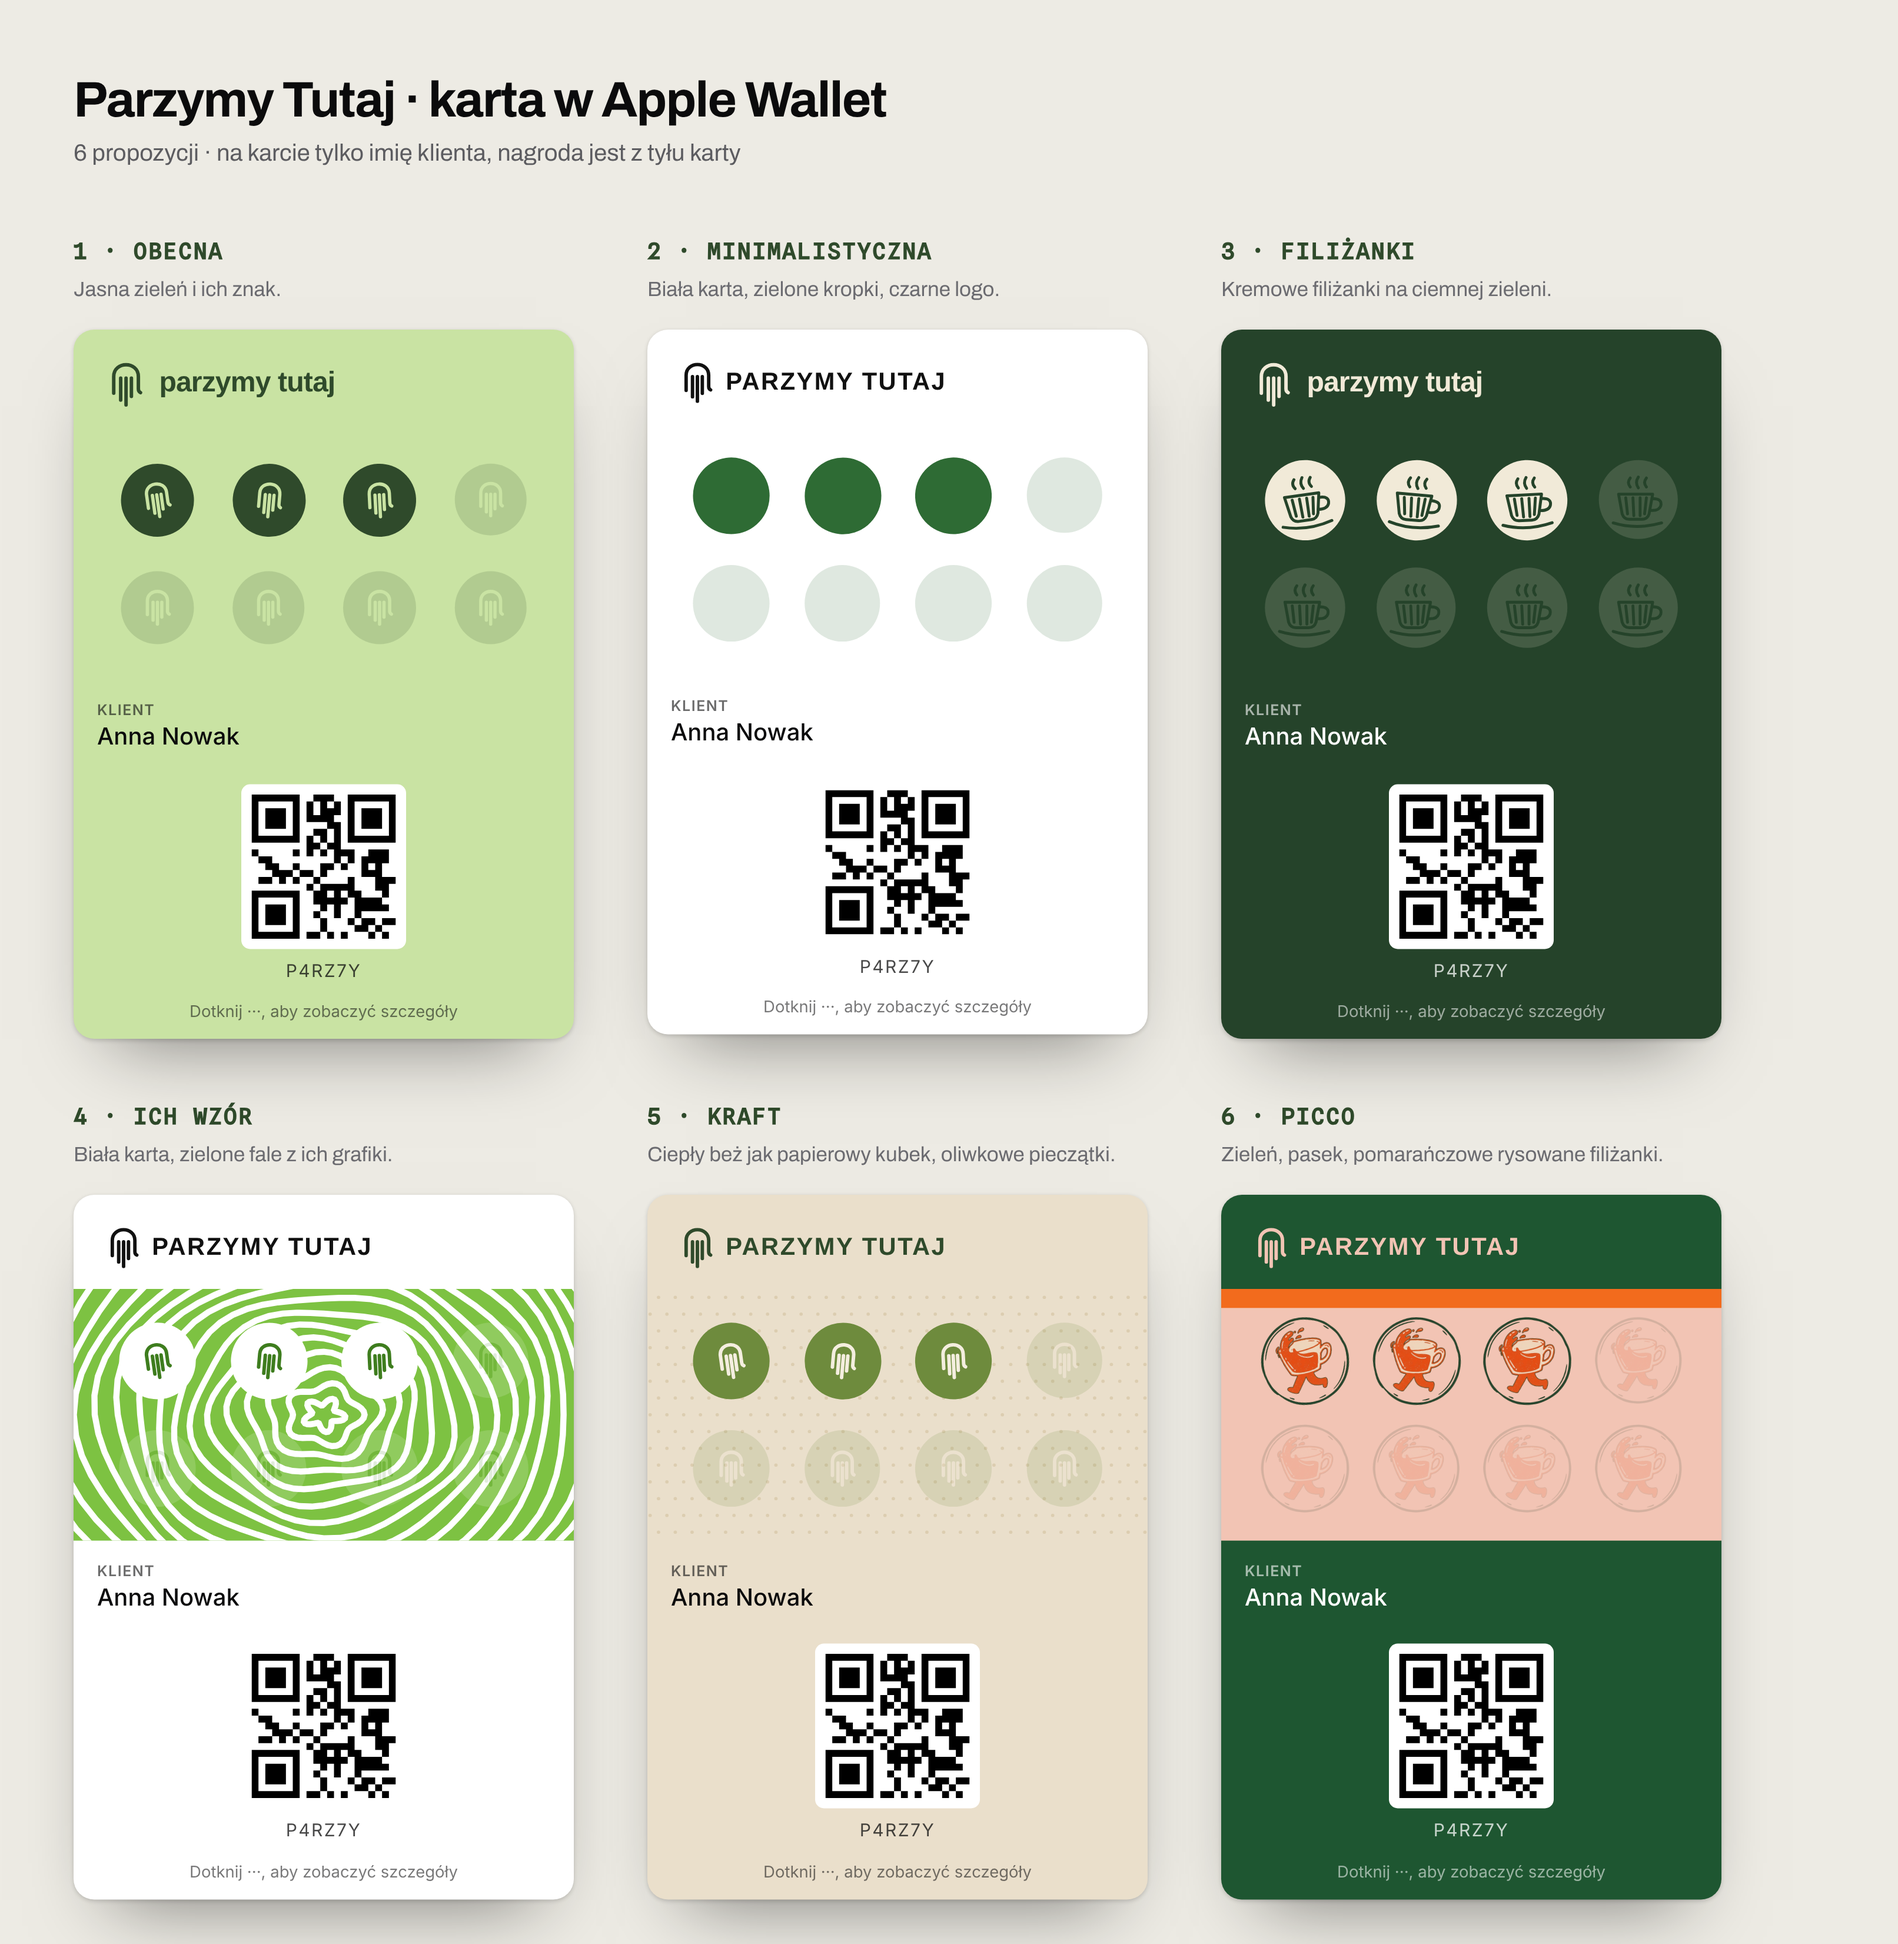
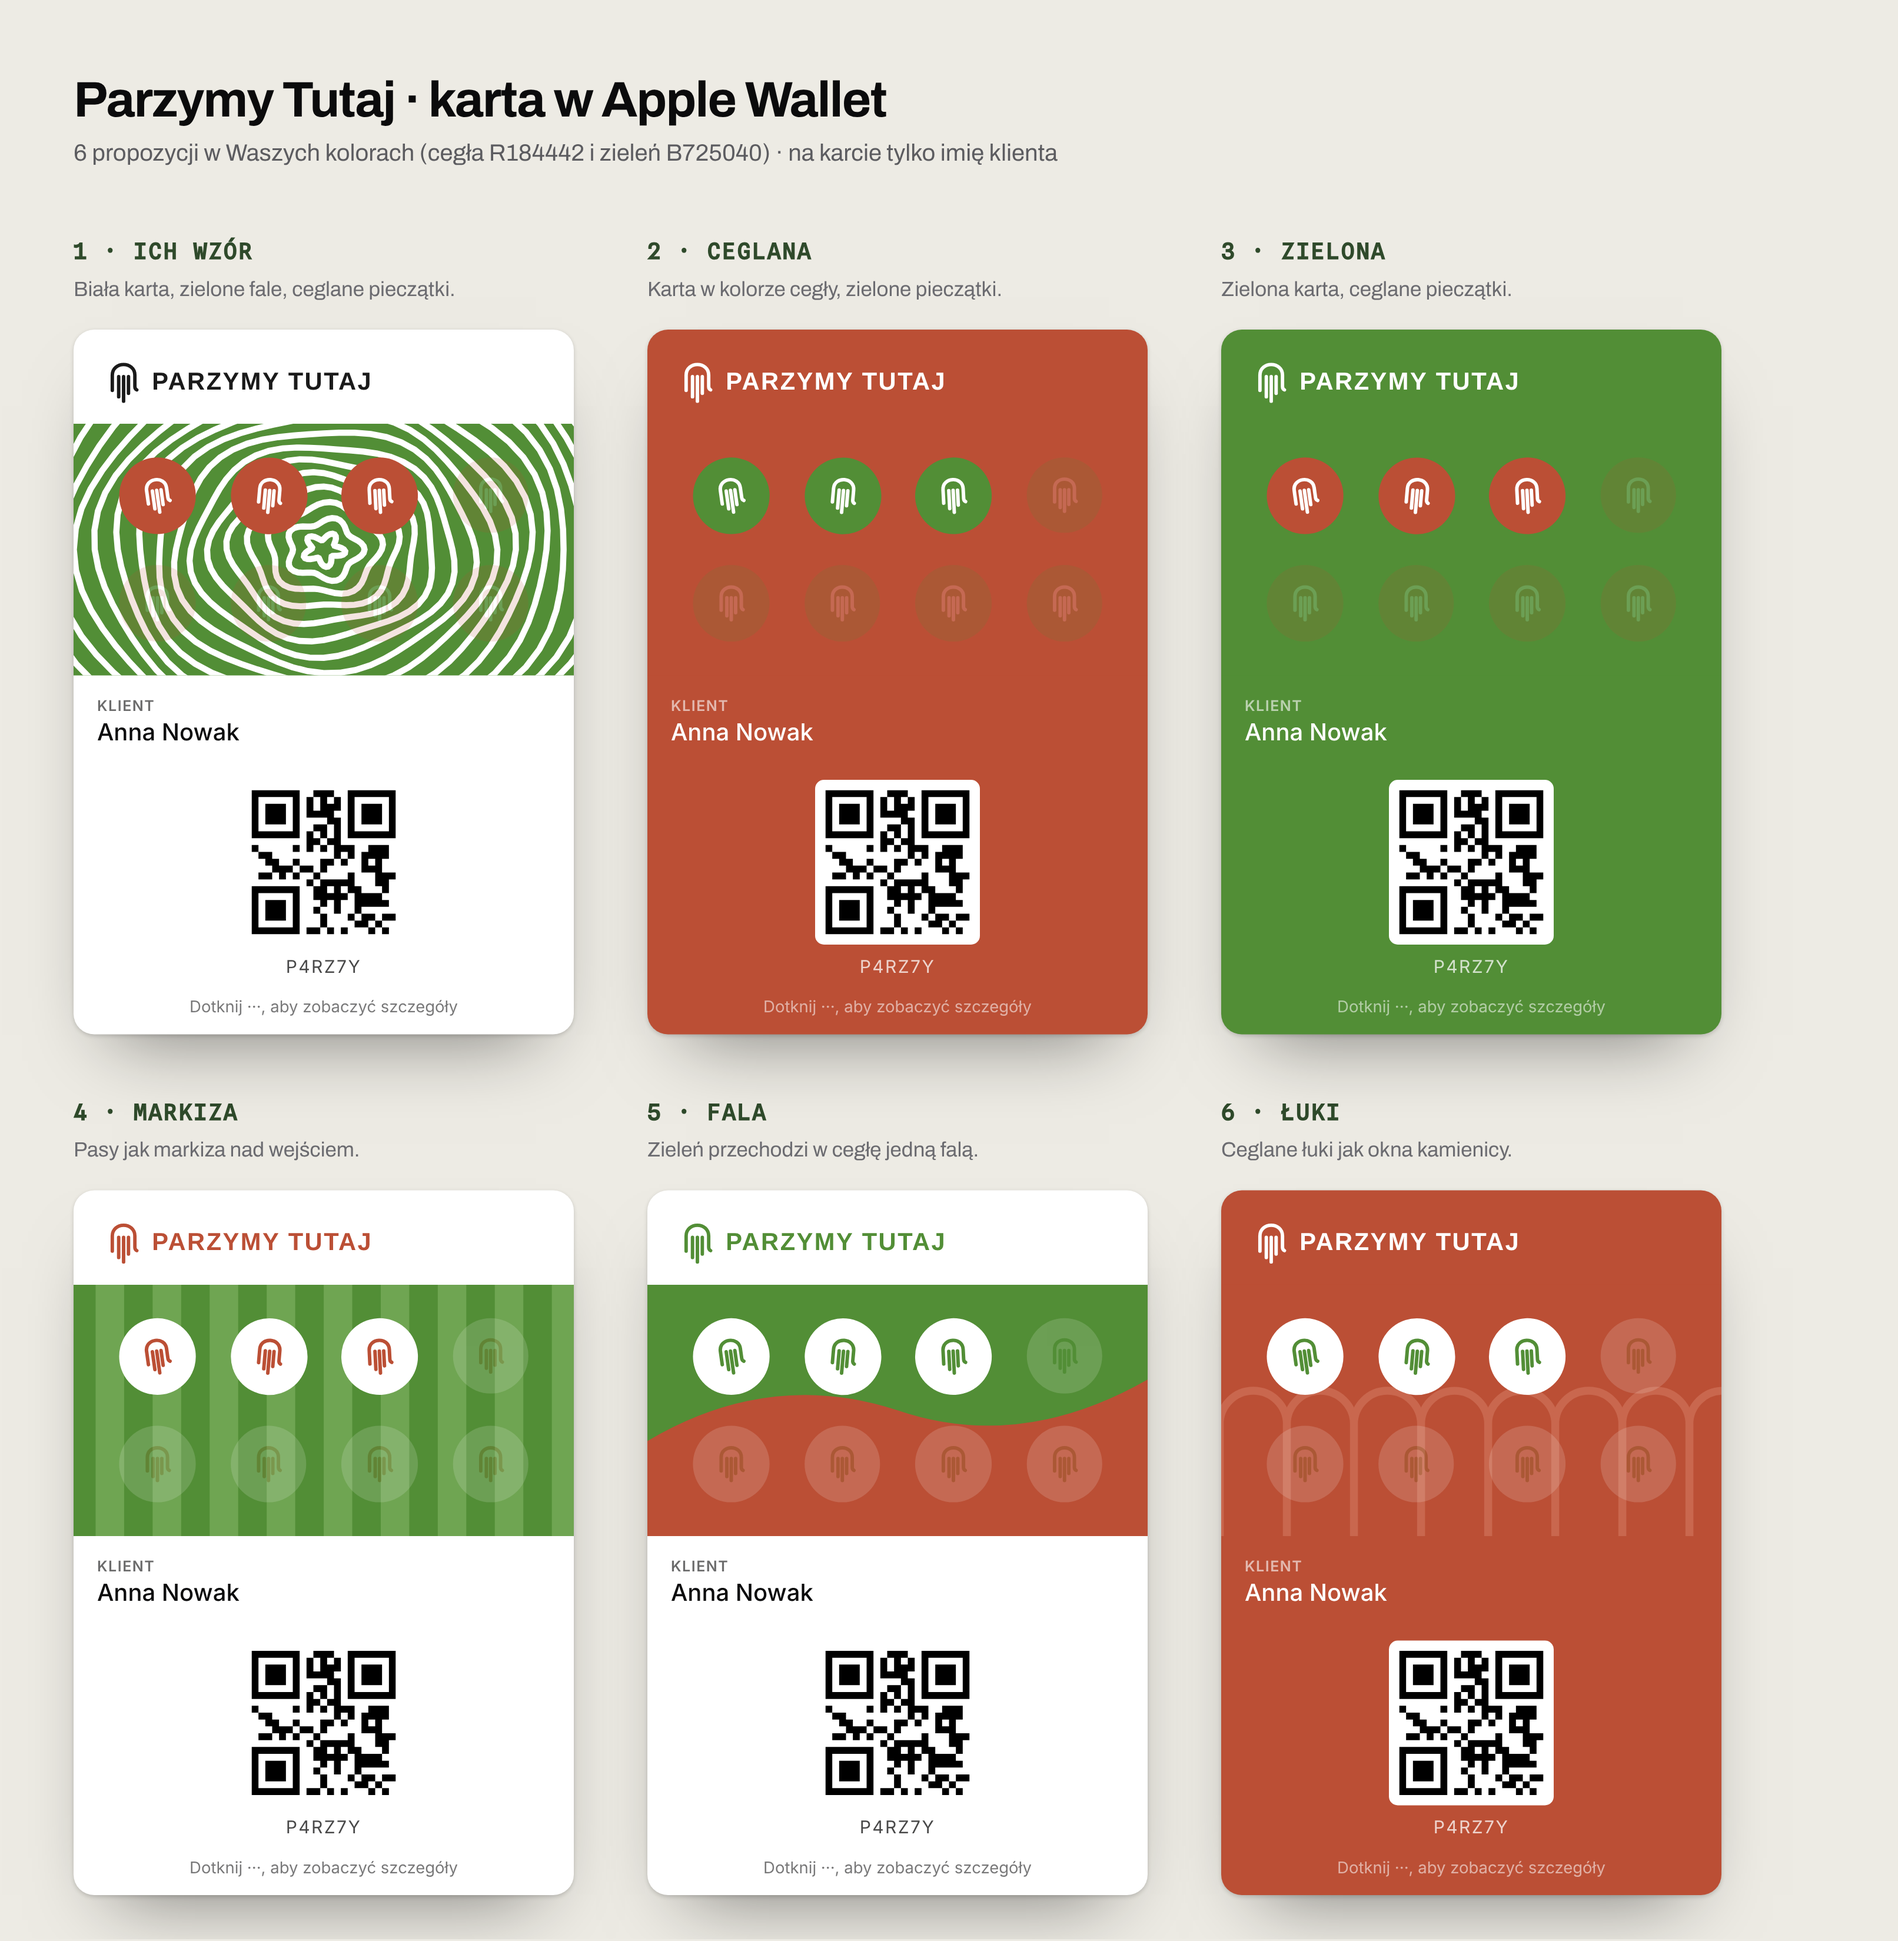
Parzymy options: six designs in their brick and green
Claude-Session: https://claude.ai/code/session_01P7jvwC9jL6ipCqqXJiCoo9

diff --git a/print/parzymy-options.html b/print/parzymy-options.html
@@ -18,7 +18,7 @@ body{margin:0;background:#EDEBE4}
 </style>
 </head>
 <body>
-<div id="board"><h1>Parzymy Tutaj · karta w Apple Wallet</h1><p>6 propozycji · na karcie tylko imię klienta, nagroda jest z tyłu karty</p><div class="grid" id="grid"></div></div>
+<div id="board"><h1>Parzymy Tutaj · karta w Apple Wallet</h1><p>6 propozycji w Waszych kolorach (cegła R184442 i zieleń B725040) · na karcie tylko imię klienta</p><div class="grid" id="grid"></div></div>
 <script src="../assets/vendor/qrcode.js"></script>
 <script src="../assets/js/config.js"></script>
 <script src="../assets/js/i18n.js"></script>
@@ -77,13 +77,19 @@ body{margin:0;background:#EDEBE4}
   const walkingCup = ink => svgUrl(`<svg xmlns="http://www.w3.org/2000/svg" viewBox="0 0 100 100"><defs><filter id="g" x="-10%" y="-10%" width="120%" height="120%"><feTurbulence type="fractalNoise" baseFrequency="1.4" numOctaves="2" seed="4"/><feColorMatrix values="0 0 0 0 0  0 0 0 0 0  0 0 0 0 0  0 0 0 -0.9 1.35"/><feComposite in="SourceGraphic" operator="in"/></filter></defs><circle cx="53" cy="55" r="41" fill="#F7EBDD"/><g transform="translate(-9 -11) rotate(-10 50 50) scale(1.12)" filter="url(#g)"><g fill="${ink}"><path d="M28 40 C36 37 58 37 68 40 L64 66 C63 71 59 73 54 73 H42 C37 73 33 71 32 66 Z"/><path d="M27 41 C22 33 24 24 31 20 C30 26 33 29 36 31 C35 25 39 20 45 19 C42 24 44 29 48 33 C51 28 56 27 60 29 C56 31 55 35 58 38 Z"/><path d="M40 72 L37 84 L30 86 C28 87 28 89 31 89 L41 88 L45 74 Z"/><path d="M55 72 L60 83 L57 89 C56 91 58 92 60 90 L66 84 L60 72 Z"/></g><g fill="none" stroke="${ink}" stroke-width="2.4" stroke-linecap="round"><path d="M67 45 C76 43 80 49 77 55 C75 60 69 62 64 61"/><path d="M27 40 C34 44 58 44 69 40"/></g></g></svg>`);
   const caps = ink => svgUrl(`<svg xmlns="http://www.w3.org/2000/svg" width="600" height="120" viewBox="0 0 600 120"><g transform="translate(4 8) scale(1)">${markG(ink, 7)}</g><text x="112" y="80" font-family="Archivo, Arial, sans-serif" font-weight="800" font-size="50" letter-spacing="3" fill="${ink}">PARZYMY TUTAJ</text></svg>`);
   const BASE = { ...L.green, hideReward: true, hideCount: true, stampsNeeded: 8 };
+  // Their colours (StoColor R184442 brick, B725040 green), with white.
+  const R = '#BB4F35', G = '#528E36', W = '#FFFFFF';
+  const mk = (fill, ink) => disc(fill, `<g transform="translate(26 22) scale(.48)">${markG(ink, 8)}</g>`);
+  const awning = (a, b) => { let r = ''; for (let x = 0; x < 1020; x += 102) r += `<rect x="${x}" width="51" height="450" fill="${b}"/>`; return svgUrl(`<svg xmlns="http://www.w3.org/2000/svg" viewBox="0 0 1020 450"><rect width="1020" height="450" fill="${a}"/>${r}</svg>`); };
+  const split = (top, bottom) => svgUrl(`<svg xmlns="http://www.w3.org/2000/svg" viewBox="0 0 1020 450" preserveAspectRatio="none"><rect width="1020" height="450" fill="${bottom}"/><path d="M0 0 H1020 V170 Q760 300 510 225 Q250 150 0 280 Z" fill="${top}"/></svg>`);
+  const arches = (bg, line) => { let p = ''; for (let x = -60; x < 1100; x += 120) p += `<path d="M${x} 450 V250 a60 60 0 0 1 120 0 V450" fill="none" stroke="${line}" stroke-width="14"/>`; return svgUrl(`<svg xmlns="http://www.w3.org/2000/svg" viewBox="0 0 1020 450"><rect width="1020" height="450" fill="${bg}"/>${p}</svg>`); };
   const OPTS = [
-    ['1 · Obecna', 'Jasna zieleń i ich znak.', { ...BASE }],
-    ['2 · Minimalistyczna', 'Biała karta, zielone kropki, czarne logo.', { ...BASE, color: '#FFFFFF', ink: '#111111', strip: '#FFFFFF', logo: caps('#111111'), stripImage: plain('#FFFFFF'), stampImage: disc('#2E6B34') }],
-    ['3 · Filiżanki', 'Kremowe filiżanki na ciemnej zieleni.', { ...BASE, color: '#25432A', ink: '#F1EAD8', strip: '#25432A', logo: L.green.logo.replace(/%232F4A2B/g, '%23F1EAD8'), stripImage: plain('#25432A'), stampImage: cup('#F1EAD8', '#25432A') }],
-    ['4 · Ich wzór', 'Biała karta, zielone fale z ich grafiki.', { ...BASE, color: '#FFFFFF', ink: '#111111', strip: '#7DC242', logo: caps('#111111'), stripImage: swirl('#7DC242', '#FFFFFF'), stampImage: disc('#FFFFFF', `<g transform="translate(26 22) scale(.48)">${markG('#3E7D1E', 8)}</g>`) }],
-    ['5 · Kraft', 'Ciepły beż jak papierowy kubek, oliwkowe pieczątki.', { ...BASE, color: '#EADFCB', ink: '#2F4A2B', strip: '#EADFCB', logo: caps('#2F4A2B'), stripImage: dots('#EADFCB', '#DCCDB0'), stampImage: disc('#6E8B3D', `<g transform="translate(26 22) scale(.48)">${markG('#F4EEDF', 8)}</g>`) }],
-    ['6 · Picco', 'Zieleń, pasek, pomarańczowe rysowane filiżanki.', { ...BASE, color: '#1E5631', ink: '#1E5631', strip: '#F2C4B4', logo: caps('#F2C4B4'), stripImage: band('#F2C4B4', '#F26B1D'), stampImage: '../assets/demo/parzymy/stamp-walking.png' }]
+    ['1 · Ich wzór', 'Biała karta, zielone fale, ceglane pieczątki.', { ...BASE, color: W, ink: '#1A1A1A', strip: G, logo: caps('#1A1A1A'), stripImage: swirl(G, W), stampImage: mk(R, W) }],
+    ['2 · Ceglana', 'Karta w kolorze cegły, zielone pieczątki.', { ...BASE, color: R, ink: W, strip: R, logo: caps(W), stripImage: plain(R), stampImage: mk(G, W) }],
+    ['3 · Zielona', 'Zielona karta, ceglane pieczątki.', { ...BASE, color: G, ink: W, strip: G, logo: caps(W), stripImage: plain(G), stampImage: mk(R, W) }],
+    ['4 · Markiza', 'Pasy jak markiza nad wejściem.', { ...BASE, color: W, ink: '#1A1A1A', strip: W, logo: caps(R), stripImage: awning(G, '#6FA552'), stampImage: mk(W, R) }],
+    ['5 · Fala', 'Zieleń przechodzi w cegłę jedną falą.', { ...BASE, color: W, ink: '#1A1A1A', strip: W, logo: caps(G), stripImage: split(G, R), stampImage: mk(W, G) }],
+    ['6 · Łuki', 'Ceglane łuki jak okna kamienicy.', { ...BASE, color: R, ink: W, strip: R, logo: caps(W), stripImage: arches(R, '#C9674E'), stampImage: mk(W, G) }]
   ];
   const who = { id: 'P4RZ7Y', name: 'Anna Nowak', stamps: 3 };
   document.getElementById('grid').innerHTML = OPTS.map(([h, p, card]) => `<div class="opt"><h2>${h}</h2><p>${p}</p>${UI.renderPass(card, who, { platform: 'apple' })}</div>`).join('');
